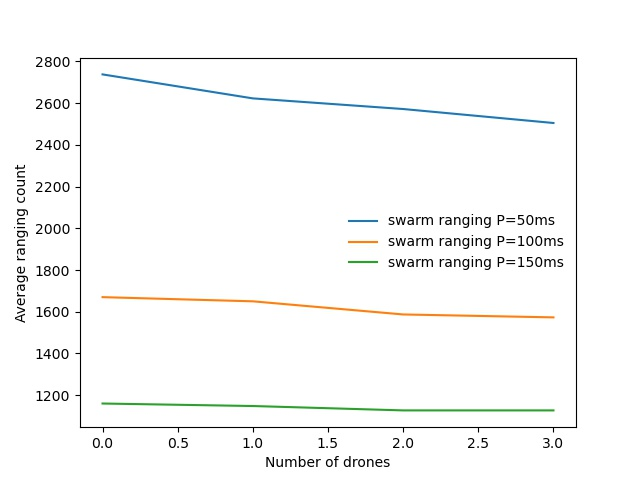
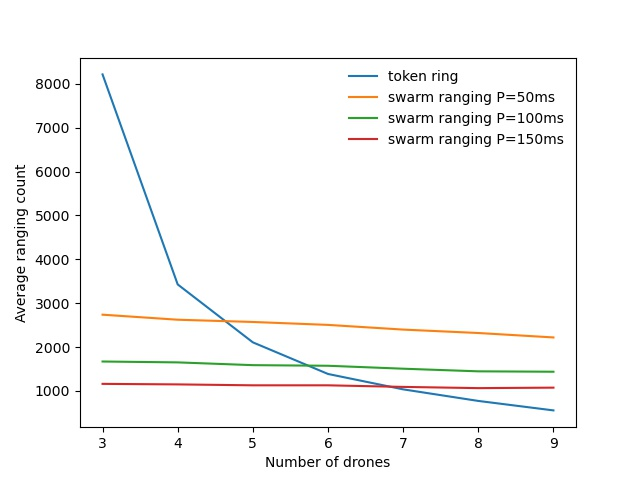
Figure12数据补全 & 重新绘图

diff --git a/LAB4/LAB4.py b/LAB4/LAB4.py
@@ -22,17 +22,20 @@ URI9 = 'radio://0/9/2M'
 
 
 def plot():
-    average_count_50ms = [2738, 2623, 2572, 2505]
-    average_count_100ms = [1670, 1650, 1587, 1573]
-    average_count_150ms = [1160, 1148, 1127, 1127]
+    average_count_ring = [8218, 3428, 2107, 1386, 1035, 771, 555]
+    average_count_50ms = [2738, 2623, 2572, 2505, 2398, 2320, 2219]
+    average_count_100ms = [1670, 1650, 1587, 1573, 1506, 1446, 1437]
+    average_count_150ms = [1160, 1148, 1127, 1127, 1091, 1063, 1074]
     legend_labels = [
+        'token ring',
         'swarm ranging P=50ms',
         'swarm ranging P=100ms',
-        'swarm ranging P=150ms',
+        'swarm ranging P=150ms'
     ]
-    plt.plot(average_count_50ms)
-    plt.plot(average_count_100ms)
-    plt.plot(average_count_150ms)
+    plt.plot(range(3, 10), average_count_ring)
+    plt.plot(range(3, 10), average_count_50ms)
+    plt.plot(range(3, 10), average_count_100ms)
+    plt.plot(range(3, 10), average_count_150ms)
     plt.legend(legend_labels, framealpha=0)
     plt.xlabel('Number of drones')
     plt.ylabel('Average ranging count')
@@ -47,6 +50,6 @@ if __name__ == '__main__':
         'total_compute': 'uint16_t'
     }
 
-    utils.log_ranging(link_uri=URI2, log_cfg_name='TSranging', log_save_path='../data/LAB4.csv',
-                      log_var=log_var, period_in_ms=100, keep_time_in_s=220)
+    # utils.log_ranging(link_uri=URI2, log_cfg_name='TSranging', log_save_path='../data/LAB4.csv',
+    #                   log_var=log_var, period_in_ms=100, keep_time_in_s=220)
     plot()
